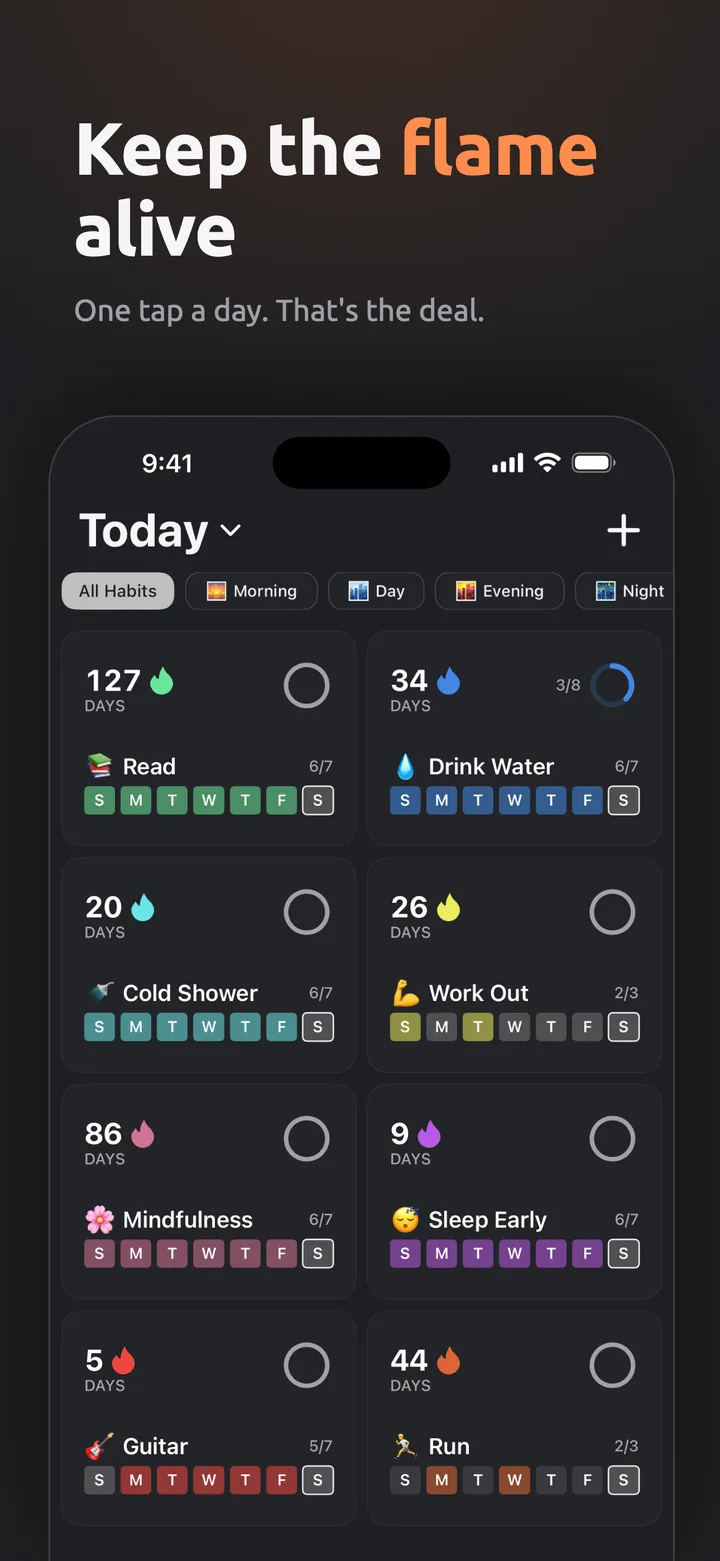
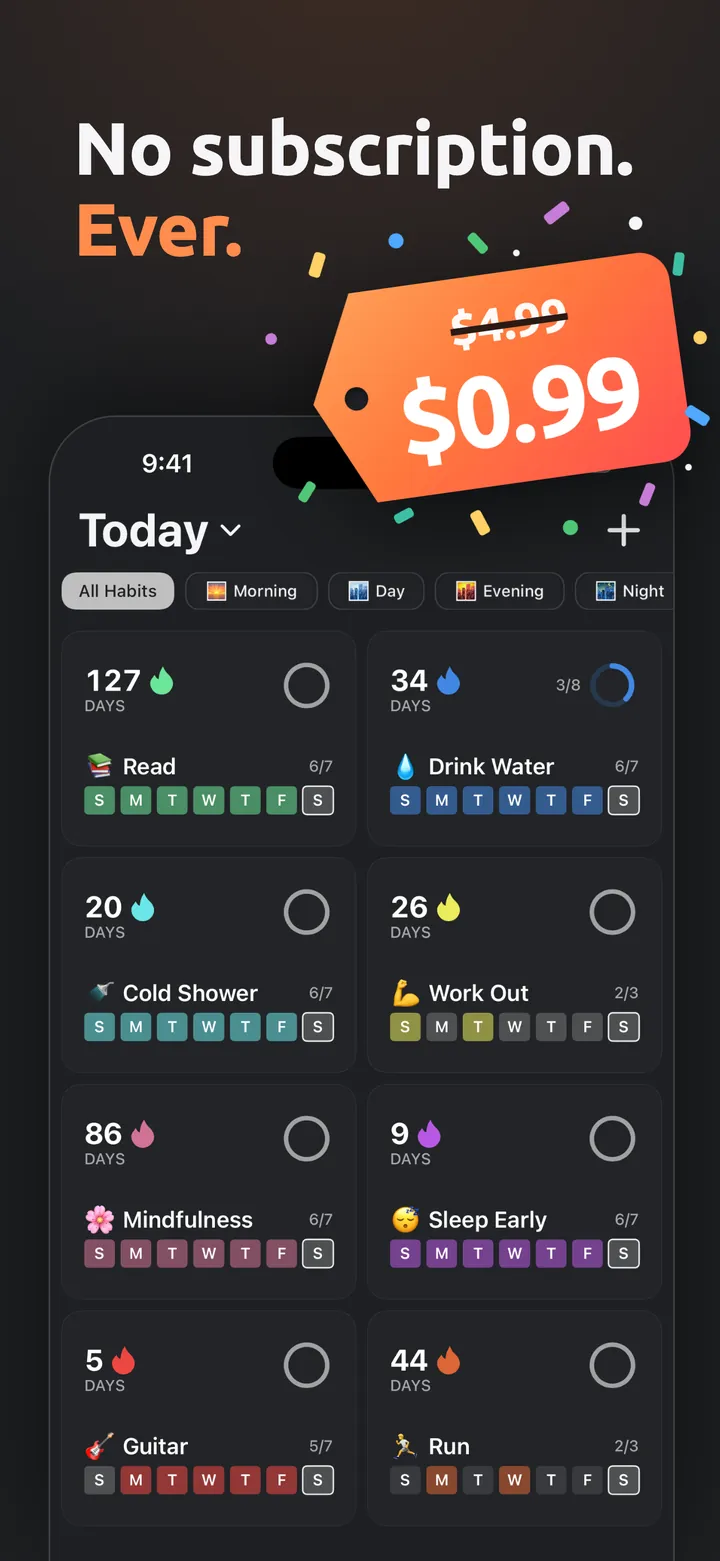
Ember: lead with the one-time price, no subscription
The hero reads "No subscription. Ever." over "all unlocked for about a dollar",
the screenshots are the new App Store set with the price tag, and the cost FAQ
and meta descriptions drop the weekly and monthly plans. The headline sizes to
its column so "No subscription." stays on one line at every width.

Changed region(s): [[0.0917, 0.0615, 0.9778, 0.3382], [0.3972, 0.3075, 0.4278, 0.3382]]

diff --git a/ember/index.html b/ember/index.html
@@ -4,18 +4,18 @@
     <meta charset="UTF-8">
     <meta name="viewport" content="width=device-width, initial-scale=1.0">
     <title>Habit Tracker with Streaks &amp; Widgets | Ember</title>
-    <meta name="description" content="Build lasting habits with Ember. Streak tracking, smart reminders, widgets, and milestone rewards. Pay once for lifetime access.">
+    <meta name="description" content="Build lasting habits with Ember. Streak tracking, smart reminders, widgets, and milestone rewards. No subscription: pay once and keep it forever.">
     <meta name="theme-color" content="#f5f0e8">
     <link rel="canonical" href="https://edgarpielb.com/ember/">
     <meta property="og:type" content="website">
     <meta property="og:site_name" content="Edgar Pielbusch">
     <meta property="og:title" content="Habit Tracker with Streaks &amp; Widgets | Ember">
-    <meta property="og:description" content="Build lasting habits with Ember. Streak tracking, smart reminders, widgets, and milestone rewards. Pay once for lifetime access.">
+    <meta property="og:description" content="Build lasting habits with Ember. Streak tracking, smart reminders, widgets, and milestone rewards. No subscription: pay once and keep it forever.">
     <meta property="og:url" content="https://edgarpielb.com/ember/">
     <meta property="og:image" content="https://edgarpielb.com/assets/icons/ember.png">
     <meta name="twitter:card" content="summary_large_image">
     <meta name="twitter:title" content="Habit Tracker with Streaks &amp; Widgets | Ember">
-    <meta name="twitter:description" content="Build lasting habits with Ember. Streak tracking, smart reminders, widgets, and milestone rewards. Pay once for lifetime access.">
+    <meta name="twitter:description" content="Build lasting habits with Ember. Streak tracking, smart reminders, widgets, and milestone rewards. No subscription: pay once and keep it forever.">
     <meta name="twitter:image" content="https://edgarpielb.com/assets/icons/ember.png">
     <link rel="preconnect" href="https://fonts.googleapis.com">
     <link rel="preconnect" href="https://fonts.gstatic.com" crossorigin>
@@ -29,7 +29,7 @@
         "@context": "https://schema.org",
         "@type": "SoftwareApplication",
         "name": "Ember: Streak & Habit Tracker",
-        "description": "Build lasting habits with Ember. Streak tracking, smart reminders, widgets, and milestone rewards. Pay once for lifetime access.",
+        "description": "Build lasting habits with Ember. Streak tracking, smart reminders, widgets, and milestone rewards. No subscription: pay once and keep it forever.",
         "applicationCategory": "LifestyleApplication",
         "operatingSystem": "iOS",
         "image": "https://edgarpielb.com/assets/icons/ember.png",
@@ -58,14 +58,14 @@
     <header class="page-hero">
         <div class="page-hero-text">
             <span class="kicker">Ember · Streak &amp; Habit Tracker</span>
-            <h1>Keep the <span class="accent">flame</span> alive.</h1>
-            <p>Streaks, smart reminders, milestones, and widgets. Pay once and keep it forever.</p>
+            <h1 class="fit-long">No subscription.<br><span class="accent">Ever.</span></h1>
+            <p>Streaks, smart reminders, milestones, and widgets, all unlocked for about a dollar. Pay once and keep it forever.</p>
             <a class="btn btn-dark btn-lg" href="https://apps.apple.com/app/id6752352900" target="_blank" rel="noopener"><svg viewBox="0 0 24 24" fill="currentColor" aria-hidden="true"><path d="M18.71 19.5c-.83 1.24-1.71 2.45-3.05 2.47-1.34.03-1.77-.79-3.29-.79-1.53 0-2 .77-3.27.82-1.31.05-2.3-1.32-3.14-2.53C4.25 17 2.94 12.45 4.7 9.39c.87-1.52 2.43-2.48 4.12-2.51 1.28-.02 2.5.87 3.29.87.78 0 2.26-1.07 3.8-.91.65.03 2.47.26 3.64 1.98-.09.06-2.17 1.28-2.15 3.81.03 3.02 2.65 4.03 2.68 4.04-.03.07-.42 1.44-1.38 2.83M13 3.5c.73-.83 1.94-1.46 2.94-1.5.13 1.17-.34 2.35-1.04 3.19-.69.85-1.83 1.51-2.95 1.42-.15-1.15.41-2.35 1.05-3.11z"/></svg>Download on the App Store</a>
         </div>
         <div class="hero-fan">
 <img class="shot-l" src="../assets/screenshots/ember/02.webp" width="720" height="1561" alt="" aria-hidden="true" decoding="async">
 <img class="shot-r" src="../assets/screenshots/ember/03.webp" width="720" height="1561" alt="" aria-hidden="true" decoding="async">
-<img class="shot-c" src="../assets/screenshots/ember/01.webp" width="720" height="1561" alt="Keep the flame alive. One tap a day." decoding="async">
+<img class="shot-c" src="../assets/screenshots/ember/01.webp" width="720" height="1561" alt="No subscription. Ever. A price tag shows $4.99 crossed out and $0.99." decoding="async">
         </div>
     </header>
     <main>
@@ -134,7 +134,7 @@
             </div>
             <div class="faq-item">
                 <button class="faq-q" type="button" aria-expanded="false"><span>What does Ember cost?</span><span class="plus" aria-hidden="true">+</span></button>
-                <div class="faq-a"><div><p>Free for up to 6 habits. For more, choose weekly, monthly, or a one-time lifetime purchase you keep forever.</p></div></div>
+                <div class="faq-a"><div><p>Free for up to 6 habits. One small payment, about a dollar, unlocks everything, and it is yours forever. No subscription and nothing to renew.</p></div></div>
             </div>
             </div>
         </section>

diff --git a/assets/site.css b/assets/site.css
@@ -129,6 +129,12 @@ h1, h2, h3 { font-family: var(--heading); font-weight: 700; }
 .page-hero h1 { font-size: 5.5rem; line-height: 1; letter-spacing: -.05em; text-wrap: balance; }
 .page-hero p { font-size: 1.125rem; line-height: 1.6; color: var(--ink-2); max-width: 28.75rem; }
 .page-hero .btn-lg { margin-top: 0.5rem; }
+/* A headline with one long line (Ember: "No subscription." / "Ever.") shrinks with the
+   viewport so that line always fits its column. Not a container query: container-type
+   on the hero text turned its App Store button grey in Chrome. */
+.page-hero h1.fit-long { font-size: min(4.6rem, 4.5vw); }
+@media (max-width: 1000px) { .page-hero h1.fit-long { font-size: min(4.5rem, 11vw); } }
+@media (max-width: 700px) { .page-hero h1.fit-long { font-size: min(3.375rem, 11vw); } }
 .hero-fan { position: relative; height: 37.5rem; }
 .hero-fan img { position: absolute; border-radius: 1.625rem; box-shadow: 0 1.5rem 3.125rem rgba(0,0,0,.22); }
 .hero-fan .shot-l { left: 1.875rem; top: 4.375rem; width: 13.75rem; transform: rotate(-7deg); }

diff --git a/index.html b/index.html
@@ -70,7 +70,7 @@
             <a class="app-panel shot-fan" href="ember/" aria-label="Ember screenshots">
 <img class="shot-l" src="assets/screenshots/ember/02.webp" width="720" height="1561" alt="" aria-hidden="true" decoding="async">
 <img class="shot-r" src="assets/screenshots/ember/03.webp" width="720" height="1561" alt="" aria-hidden="true" decoding="async">
-<img class="shot-c" src="assets/screenshots/ember/01.webp" width="720" height="1561" alt="Keep the flame alive. One tap a day." decoding="async">
+<img class="shot-c" src="assets/screenshots/ember/01.webp" width="720" height="1561" alt="No subscription. Ever. A price tag shows $4.99 crossed out and $0.99." decoding="async">
             </a>
         </article>
         <article class="app-row app-pouchless">
